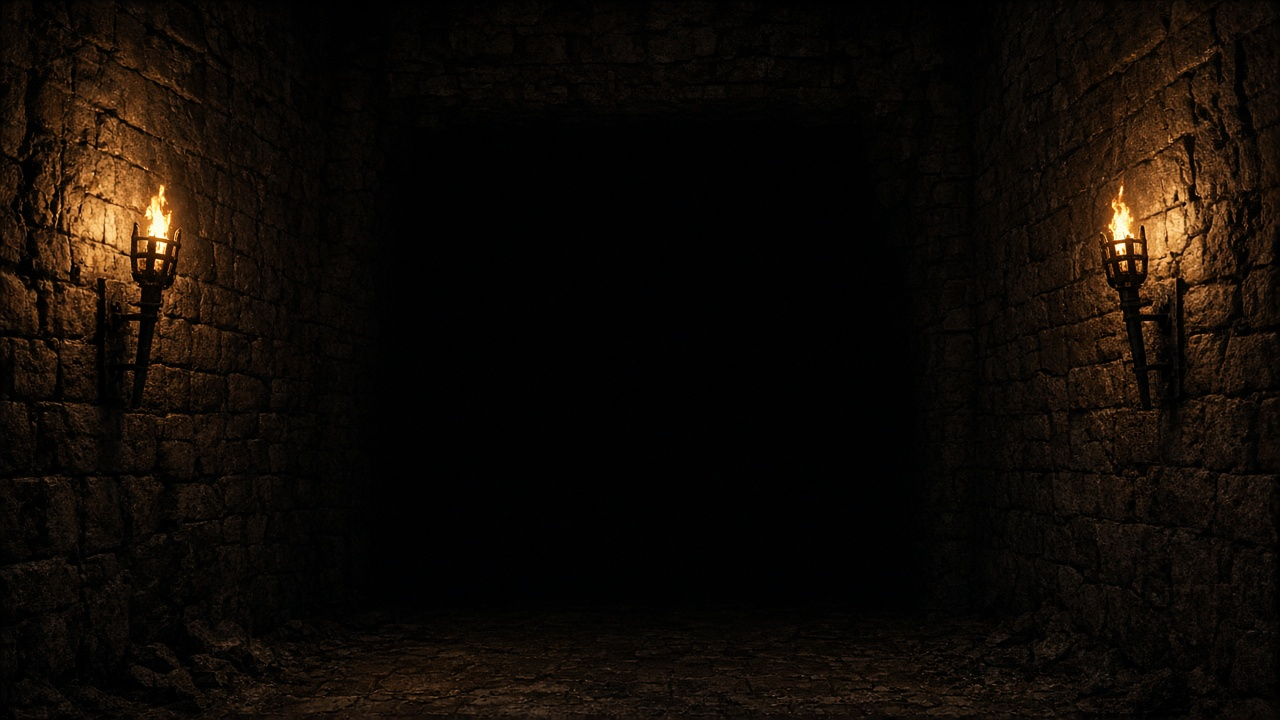
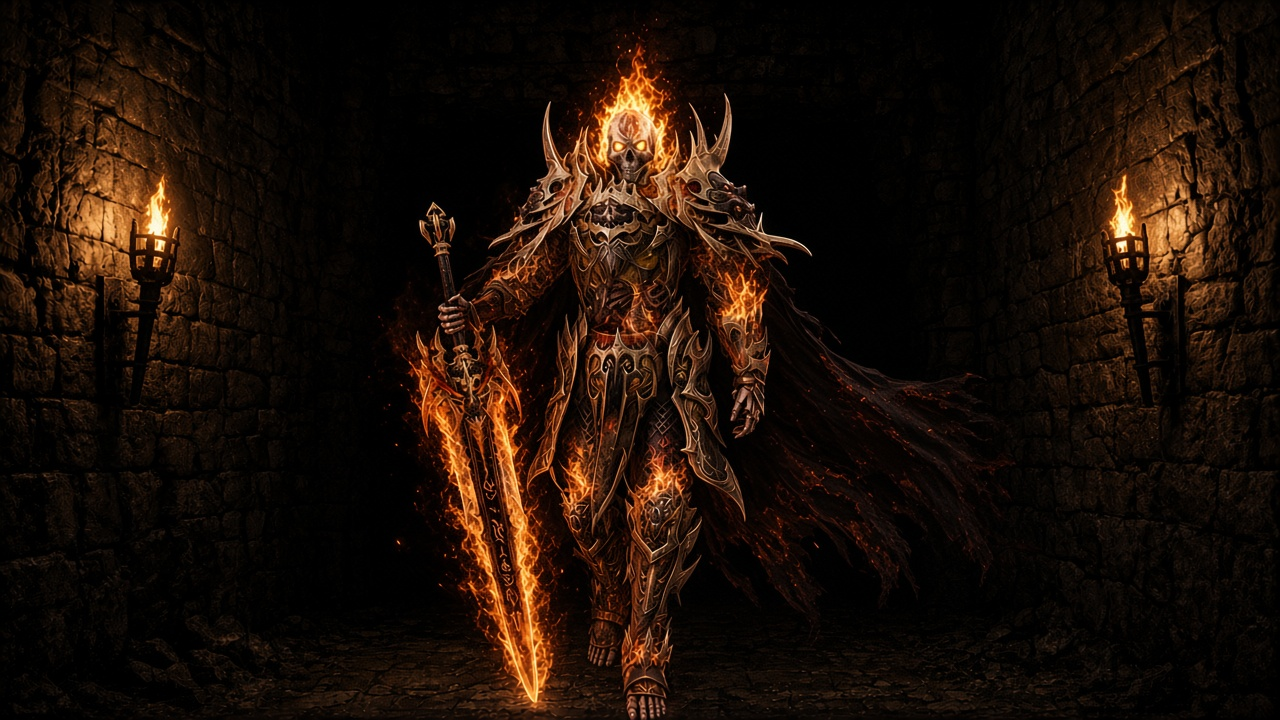
측정기 배경 한가운데에 데스나이트를 넣습니다.

diff --git a/index.html b/index.html
@@ -659,7 +659,7 @@ footer.note { margin-top: 8px; color: var(--muted); font-size: 14px; }
       <h1>리니지 클래식 DPS 측정기</h1>
       <div class="credit-row">
         <p>제작: <a class="channel" href="https://www.youtube.com/user/linkstyle84" target="_blank" rel="noopener">도건유튜브</a></p>
-        <p class="updated">업데이트 일시: 2026년 10월 27일 08:16 (버전: 3.12v)</p>
+        <p class="updated">업데이트 일시: 2026년 10월 27일 08:31 (버전: 3.13v)</p>
       </div>
     </div>
     <div class="top-actions">
